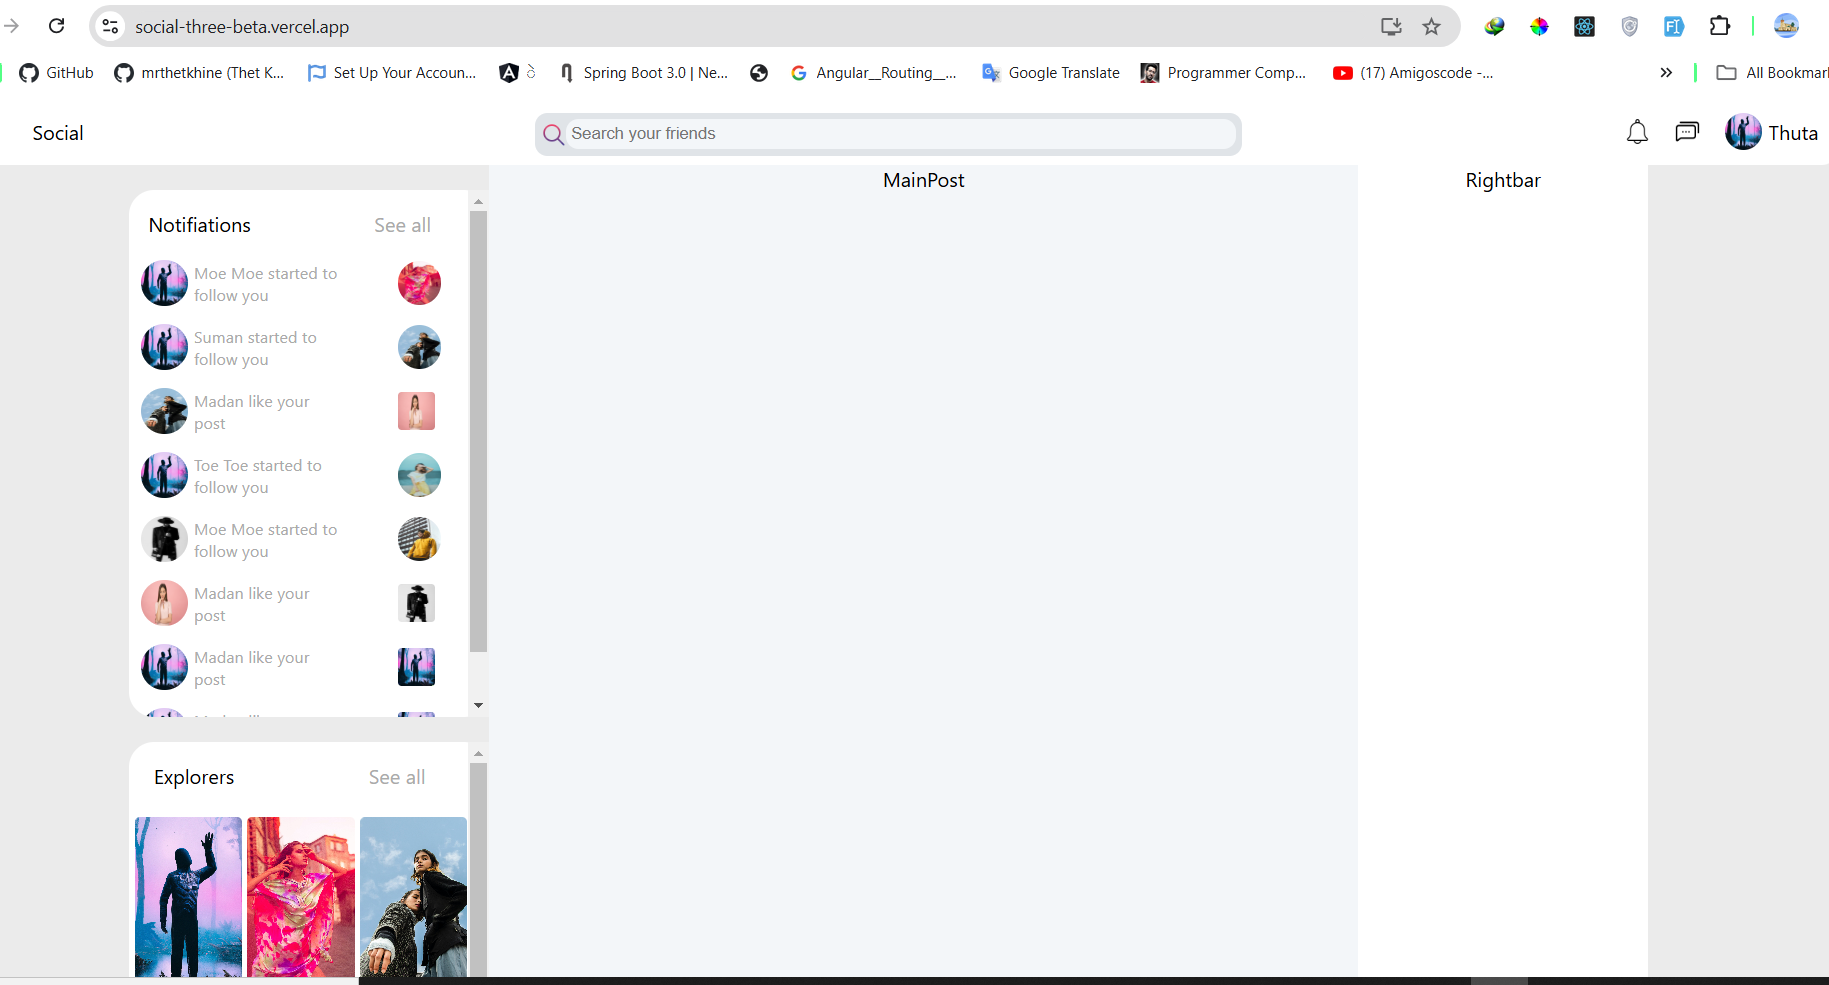
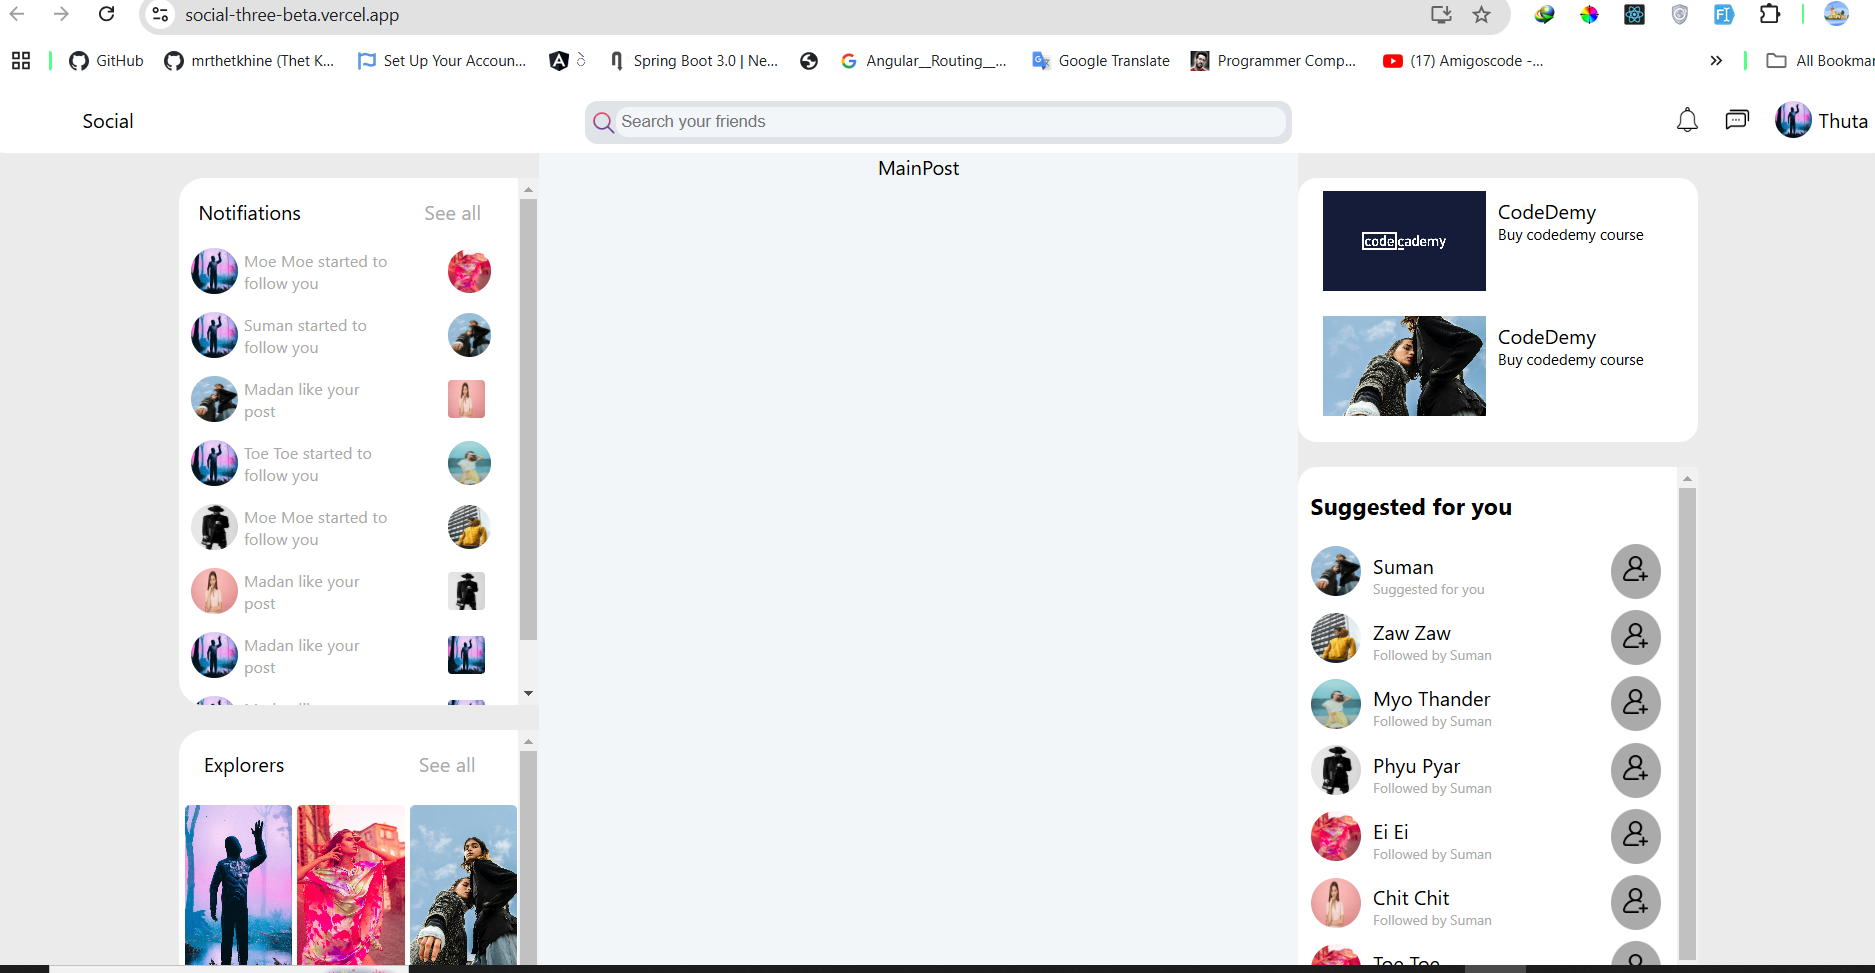
changed  project-2.png to social.png

diff --git a/index.html b/index.html
@@ -125,7 +125,7 @@
               </div>
             </div>
             <div class="work__image-box">
-              <img src="./images/project-2.png" class="work__image" alt="Project 1" />
+              <img src="./images/social.png" class="work__image" alt="Project 1" />
             </div>
           </div>
 
